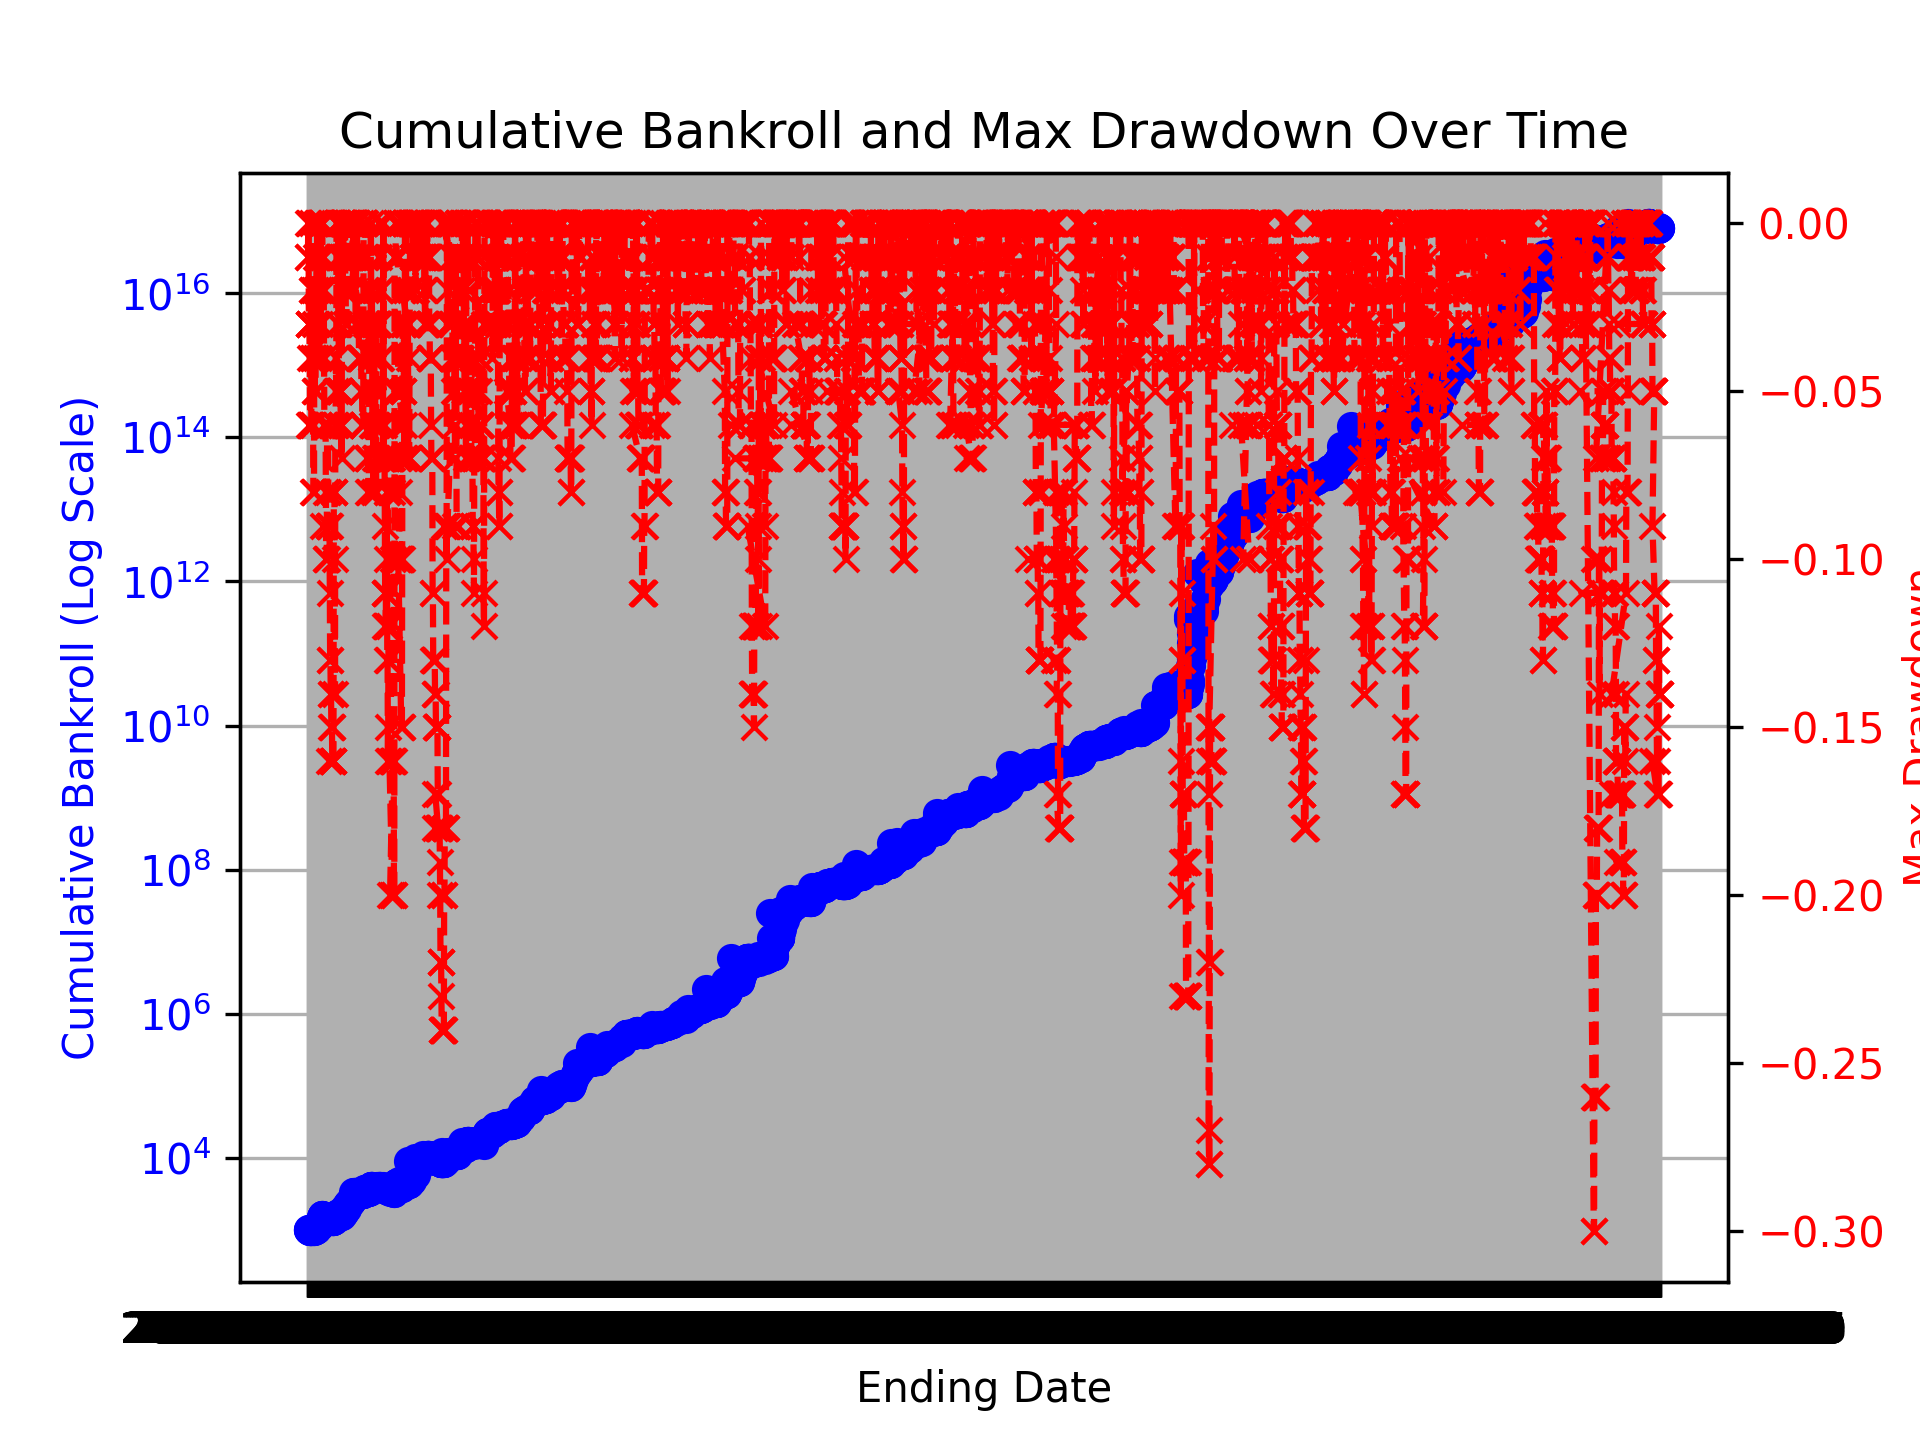
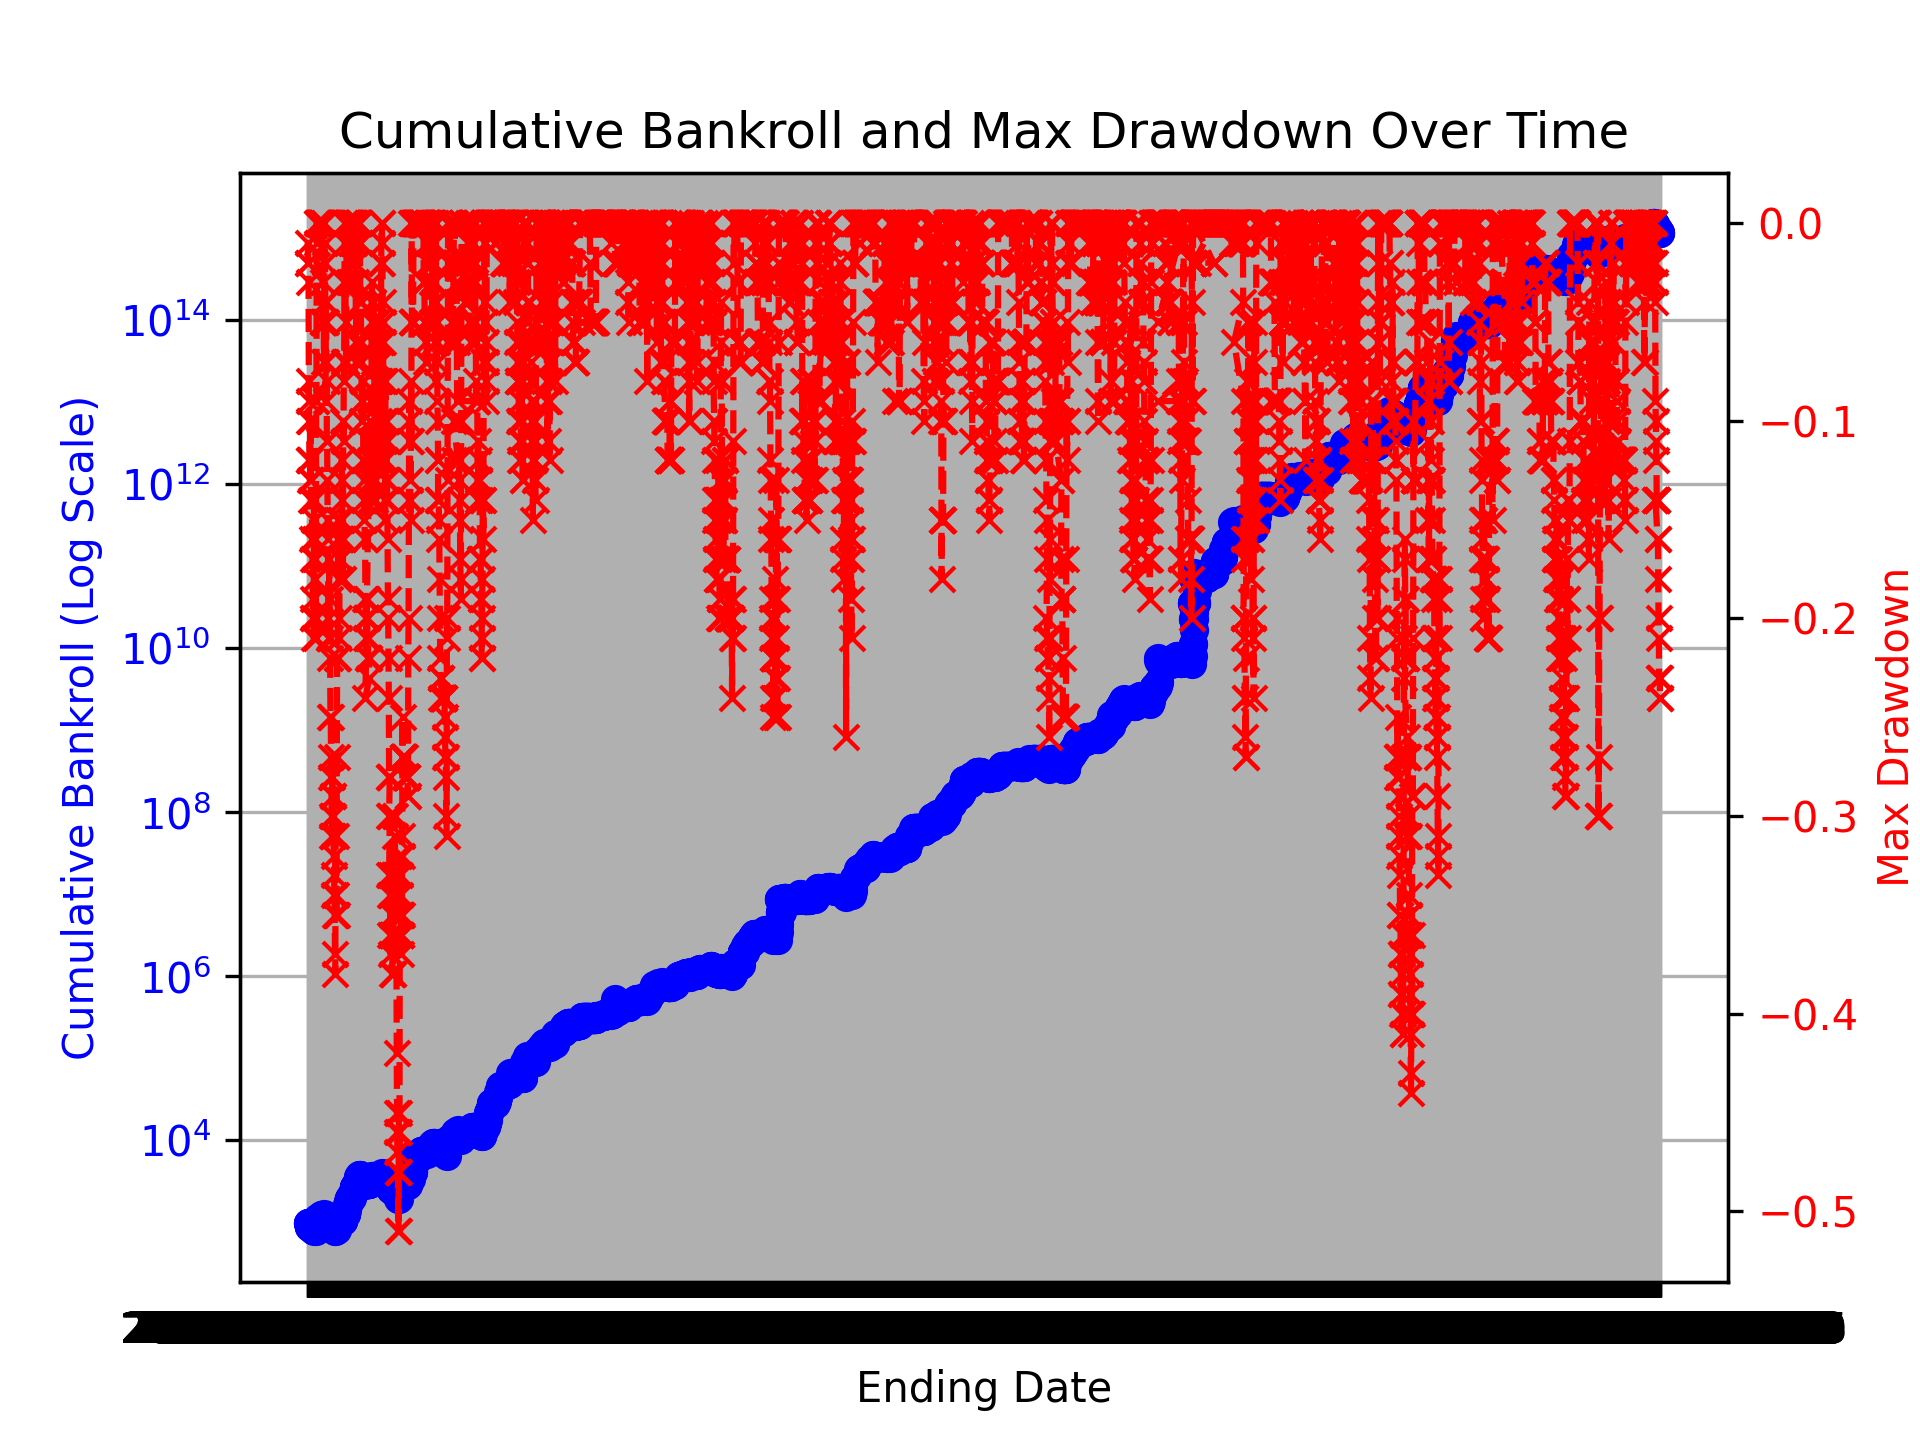
Fix small bug in the open and close dates logic

diff --git a/portfolio_backtests.py b/portfolio_backtests.py
@@ -19,10 +19,14 @@ def get_csv_files(strategy_folder_name):
 
 def create_and_merge_dataframes(selected_columns):
     def create_open_and_close_dates(df):
+        df['starting_date'] = None
+        df['ending_date'] = None
         rows_to_drop = []
+        # print(df)
+        # quit()
         for i in range(1, len(df)):
             if df.loc[i, 'type'] == 'Exit Long':
-                df.loc[i, 'starting_date'] = df.loc[i+-1, 'date/time']
+                df.loc[i, 'starting_date'] = df.loc[i+1, 'date/time']
                 df.loc[i, 'ending_date'] = df.loc[i, 'date/time']
             else:
                 rows_to_drop.append(i)
@@ -244,13 +248,13 @@ MAX_COUNTER_VALUE = 20
 SELECTED_COLUMNS_START = [
     'symbol', 'type', 'starting_date', 'ending_date', 'profit_%', 'cum_bankroll']
 
-# STRATEGY_FOLDER_NAME = 'fib_dynamic'
-STRATEGY_FOLDER_NAME = 'quant_program'
+STRATEGY_FOLDER_NAME = 'fib_dynamic'
+# STRATEGY_FOLDER_NAME = 'quant_program'
 
 csv_files = get_csv_files(STRATEGY_FOLDER_NAME)
 result_dataframes = []
 
-for i in np.arange(0.25, 4.25, 0.25):
+for i in np.arange(0.25, 1.75, 0.25):
     PCT_OF_CAPITAL_PER_TRADE = i
     MAX_TRADES = int(MARGIN_FACTOR / PCT_OF_CAPITAL_PER_TRADE)
 
